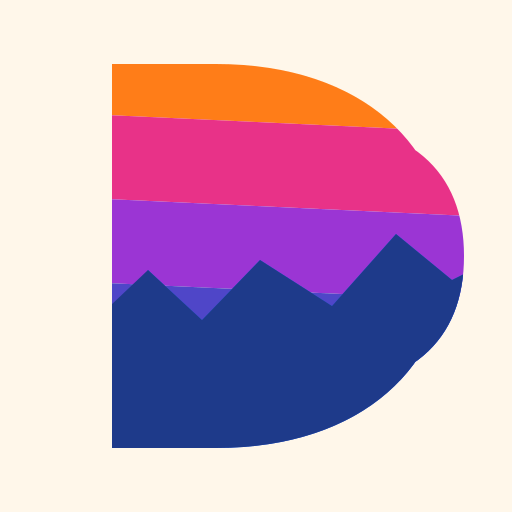
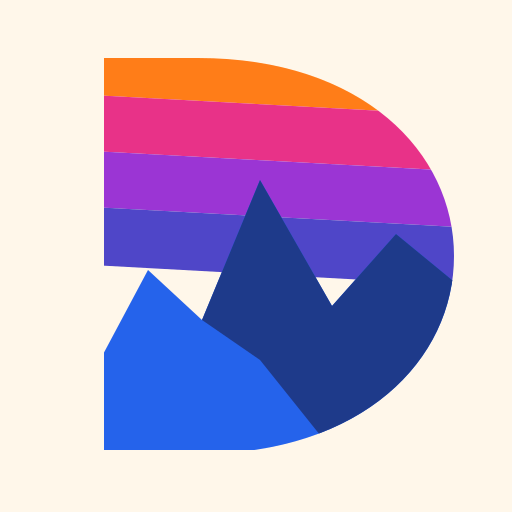
fix(brand): improve sunset D SVG fidelity and regenerate assets
- Clip with evenodd counter, smooth cubic bowl, angled sky bands
- Layered mountain peaks with shadow facets; tallest into counter
- Nil-safe custom-styles override and static css fallback
- Regenerate favicons, PWA icons, and og-default.png

diff --git a/layouts/_partials/head/custom-styles.html b/layouts/_partials/head/custom-styles.html
@@ -1,0 +1,29 @@
+{{/*
+  Extends theme custom-styles: guard when resources.Get misses (e.g. dev server path quirks).
+*/}}
+{{ range .Site.Params.customCSS }}
+  {{ $styles := resources.Get . }}
+  {{ if $styles }}
+    {{ if hugo.IsServer }}
+      <link rel="stylesheet" href="{{ $styles.RelPermalink }}" media="screen">
+    {{ else }}
+      {{ $min := $styles | resources.Minify | resources.Fingerprint }}
+      <link rel="stylesheet" href="{{ $min.RelPermalink }}" integrity="{{ $min.Data.Integrity }}" crossorigin="anonymous" media="screen">
+    {{ end }}
+  {{ else }}
+    <link rel="stylesheet" href="{{ . | relURL }}" media="screen">
+  {{ end }}
+{{ end }}
+
+{{ range .Site.Params.customSCSS }}
+  {{ if hugo.IsServer }}
+    {{ $cssOpts := dict "enableSourceMap" true }}
+    {{ with resources.Get . | toCSS $cssOpts }}
+      <link rel="stylesheet" href="{{ .RelPermalink }}" media="screen">
+    {{ end }}
+  {{ else }}
+    {{ with resources.Get . | toCSS | resources.Minify | resources.Fingerprint }}
+      <link rel="stylesheet" href="{{ .RelPermalink }}" integrity="{{ .Data.Integrity }}" crossorigin="anonymous" media="screen">
+    {{ end }}
+  {{ end }}
+{{ end }}

diff --git a/static/css/site-logo.css b/static/css/site-logo.css
@@ -1,0 +1,24 @@
+.navigation-title--brand {
+  display: inline-flex;
+  align-items: center;
+  gap: 0.55rem;
+  text-transform: none;
+  letter-spacing: 0.02rem;
+}
+
+.site-logo {
+  display: block;
+  height: 2.25rem;
+  width: 2.25rem;
+  flex: 0 0 auto;
+}
+
+.colorscheme-dark .site-logo {
+  border-radius: 0.35rem;
+  background-color: #fff7ea;
+  box-shadow: 0 0 0 1px rgba(255, 247, 234, 0.12);
+}
+
+.navigation-title__text {
+  display: inline-block;
+}

diff --git a/scripts/compare-logo-fidelity.py b/scripts/compare-logo-fidelity.py
@@ -1,0 +1,34 @@
+#!/usr/bin/env python3
+"""Side-by-side source JPG vs rendered logo-cream SVG."""
+
+from __future__ import annotations
+
+import io
+from pathlib import Path
+
+import cairosvg
+from PIL import Image
+
+ROOT = Path(__file__).resolve().parents[1]
+SOURCE = ROOT / "assets/brand/logo-sunset-d-source.jpg"
+SVG = ROOT / "static/logo-cream.svg"
+OUT = Path("/opt/cursor/artifacts/logo-source-vs-svg.png")
+
+
+def main() -> None:
+    source = Image.open(SOURCE).convert("RGB")
+    size = source.width
+    png_bytes = cairosvg.svg2png(url=str(SVG), output_width=size, output_height=size)
+    rendered = Image.open(io.BytesIO(png_bytes)).convert("RGB")
+    gap = 24
+    label_h = 40
+    canvas = Image.new("RGB", (size * 2 + gap, size + label_h), "#f0f0f0")
+    canvas.paste(source, (0, label_h))
+    canvas.paste(rendered, (size + gap, label_h))
+    OUT.parent.mkdir(parents=True, exist_ok=True)
+    canvas.save(OUT)
+    print(f"Wrote {OUT}")
+
+
+if __name__ == "__main__":
+    main()
